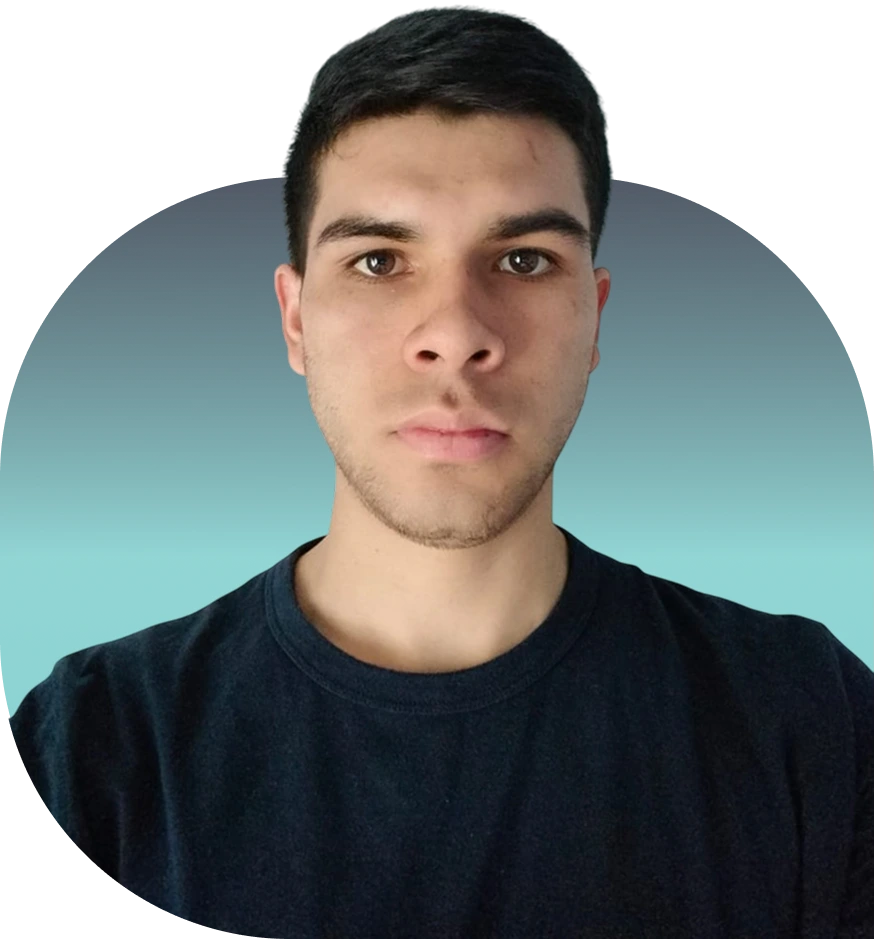
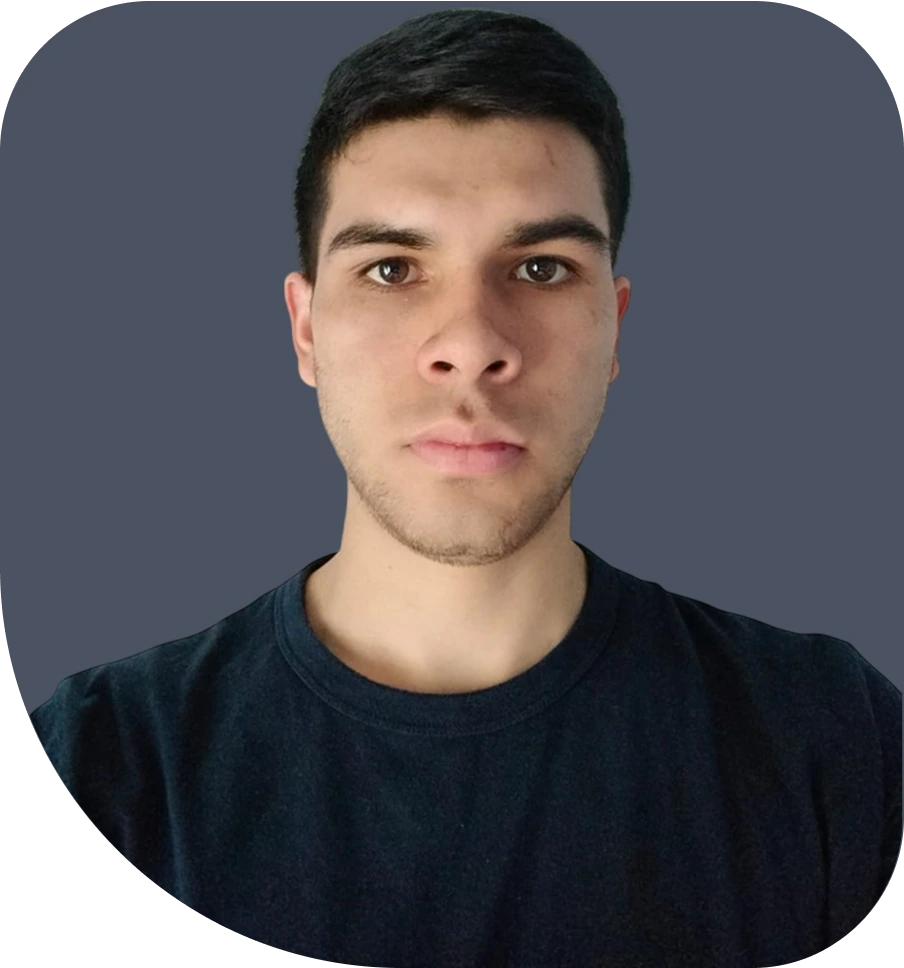
nueva imagen de perfil y hover en botones de home

diff --git a/assets/css/home.css b/assets/css/home.css
@@ -20,21 +20,27 @@
 #home .text span {
   color: #84d0cf;
 }
-#home .btn-whatsApp {
+#home .btns {
   color: #5bc0be;
   background-color: #0a2222;
 }
-#home .btn-download-cv {
-  color: #5bc0be;
-  background-color: #0a2222;
+#home .btns:hover {
+  background-color: #052029;
+  color: white;
 }
+
 #home .right .img {
   width: 100%;
   height: 100%;
   object-fit: contain;
   display: block;
-  filter: drop-shadow(1px 2px 10px #278686);
+  filter: drop-shadow(1px 0px 2px #0cafaf);
   max-height: 500px;
+  transition: ease 0.3s;
+}
+#home .right .img:hover {
+  transform: scale(1.01);
+  filter: drop-shadow(1px 0px 10px #0cafaf);
 }
 #home .right ::after {
   content: "";

diff --git a/index.html b/index.html
@@ -126,13 +126,13 @@
             <a
               href="https://wa.me/+573005791413"
               target="_blank"
-              class="btn btn-whatsApp mt-3 rounded-4"
+              class="btn btns mt-3 rounded-1"
             >
               <i class="bi bi-whatsapp me-2"></i> Contáctame
             </a>
             <a
               href="https://drive.google.com/uc?export=download&amp;id=1pGOEWnbjbuzafxpWK3-M5zj6vLpm8XRq"
-              class="btn btn-download-cv mt-3 rounded-5"
+              class="btn btns mt-3 rounded-1"
             >
               <i class="bi bi-download me-2"></i> Descargar CV
             </a>
